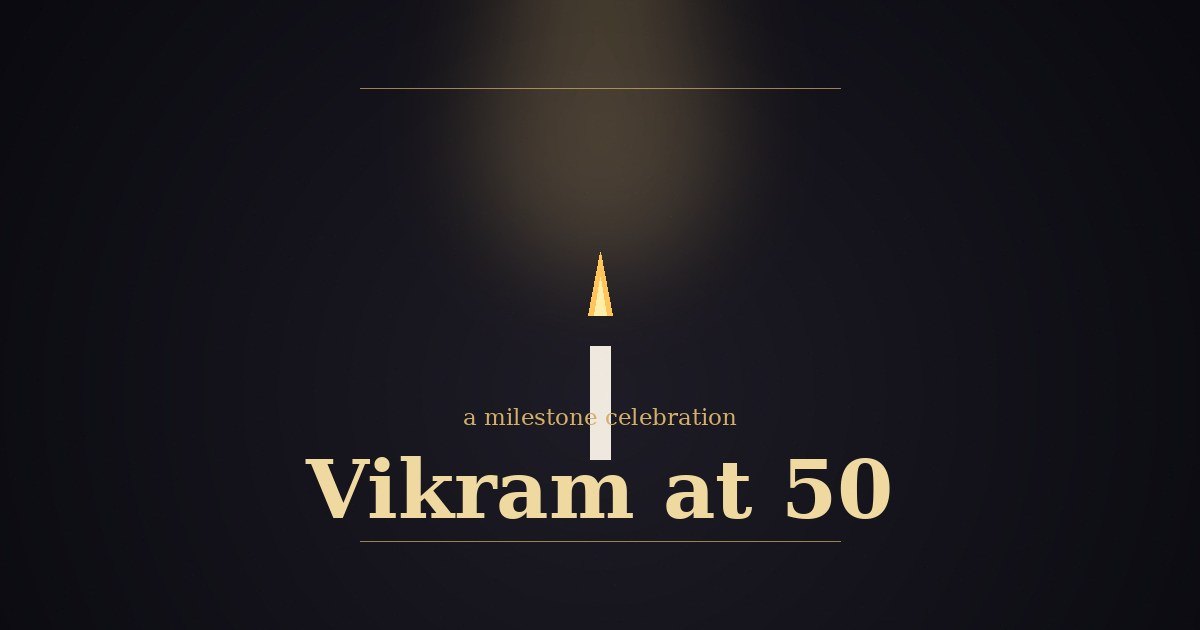
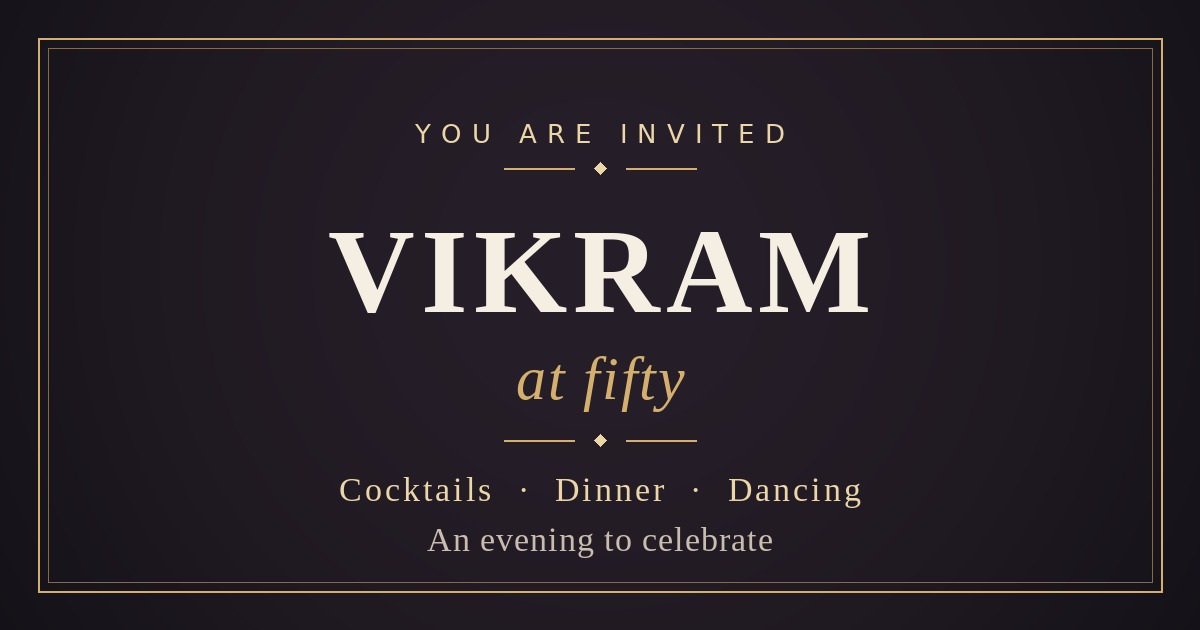
Add cover images for all invites

diff --git a/birthday-pop/index.html b/birthday-pop/index.html
@@ -11,10 +11,9 @@
 <meta property="og:type" content="website">
 <meta property="og:title" content="Aanya turns 8! 🎉">
 <meta property="og:description" content="Balloons, cake and confetti — come party with us!">
-<meta property="og:image" content="https://YOUR-LINK.vercel.app/images/cover.jpg">
-<meta property="og:url" content="https://YOUR-LINK.vercel.app/">
-<meta name="twitter:card" content="summary_large_image">
-<meta name="twitter:image" content="https://YOUR-LINK.vercel.app/images/cover.jpg">
+<meta property="og:image" content="https://invitation-1-iota.vercel.app/birthday-elegant/images/cover.jpg">
+<meta property="og:url" content="https://invitation-1-iota.vercel.app/birthday-elegant/">
+<meta name="twitter:image" content="https://invitation-1-iota.vercel.app/birthday-elegant/images/cover.jpg">
 
 <link rel="preconnect" href="https://fonts.googleapis.com">
 <link rel="preconnect" href="https://fonts.gstatic.com" crossorigin>

diff --git a/floral-wedding/index.html b/floral-wedding/index.html
@@ -11,10 +11,9 @@
 <meta property="og:type" content="website">
 <meta property="og:title" content="Riya &amp; Kabir — Wedding Invitation">
 <meta property="og:description" content="Together with their families, Riya &amp; Kabir invite you to their wedding.">
-<meta property="og:image" content="https://YOUR-LINK.vercel.app/images/cover.jpg">
-<meta property="og:url" content="https://YOUR-LINK.vercel.app/">
-<meta name="twitter:card" content="summary_large_image">
-<meta name="twitter:image" content="https://YOUR-LINK.vercel.app/images/cover.jpg">
+<meta property="og:image" content="https://invitation-1-iota.vercel.app/royal-wedding/images/cover.jpg">
+<meta property="og:url" content="https://invitation-1-iota.vercel.app/royal-wedding/">
+<meta name="twitter:image" content="https://invitation-1-iota.vercel.app/royal-wedding/images/cover.jpg">
 
 <link rel="preconnect" href="https://fonts.googleapis.com">
 <link rel="preconnect" href="https://fonts.gstatic.com" crossorigin>

diff --git a/royal-wedding/index.html b/royal-wedding/index.html
@@ -12,10 +12,9 @@
 <meta property="og:type" content="website">
 <meta property="og:title" content="Aarav &amp; Diya — Wedding Invitation">
 <meta property="og:description" content="With the blessings of our families, we invite you to celebrate our wedding.">
-<meta property="og:image" content="https://YOUR-LINK.vercel.app/images/cover.jpg">
-<meta property="og:url" content="https://YOUR-LINK.vercel.app/">
-<meta name="twitter:card" content="summary_large_image">
-<meta name="twitter:image" content="https://YOUR-LINK.vercel.app/images/cover.jpg">
+<meta property="og:image" content="https://invitation-1-iota.vercel.app/royal-wedding/images/cover.jpg">
+<meta property="og:url" content="https://invitation-1-iota.vercel.app/royal-wedding/">
+<meta name="twitter:image" content="https://invitation-1-iota.vercel.app/royal-wedding/images/cover.jpg">
 
 <link rel="preconnect" href="https://fonts.googleapis.com">
 <link rel="preconnect" href="https://fonts.gstatic.com" crossorigin>

diff --git a/birthday-elegant/index.html b/birthday-elegant/index.html
@@ -12,9 +12,9 @@
 <meta property="og:title" content="Vikram at 50 — A Celebration">
 <meta property="og:description" content="An evening of cocktails, dinner and dancing. You're invited.">
 <meta property="og:image" content="https://YOUR-LINK.vercel.app/images/cover.jpg">
-<meta property="og:url" content="https://YOUR-LINK.vercel.app/">
-<meta name="twitter:card" content="summary_large_image">
-<meta name="twitter:image" content="https://YOUR-LINK.vercel.app/images/cover.jpg">
+<meta property="og:image" content="https://invitation-1-iota.vercel.app/birthday-elegant/images/cover.jpg">
+<meta property="og:url" content="https://invitation-1-iota.vercel.app/birthday-elegant/">
+<meta name="twitter:image" content="https://invitation-1-iota.vercel.app/birthday-elegant/images/cover.jpg">
 
 <link rel="preconnect" href="https://fonts.googleapis.com">
 <link rel="preconnect" href="https://fonts.gstatic.com" crossorigin>